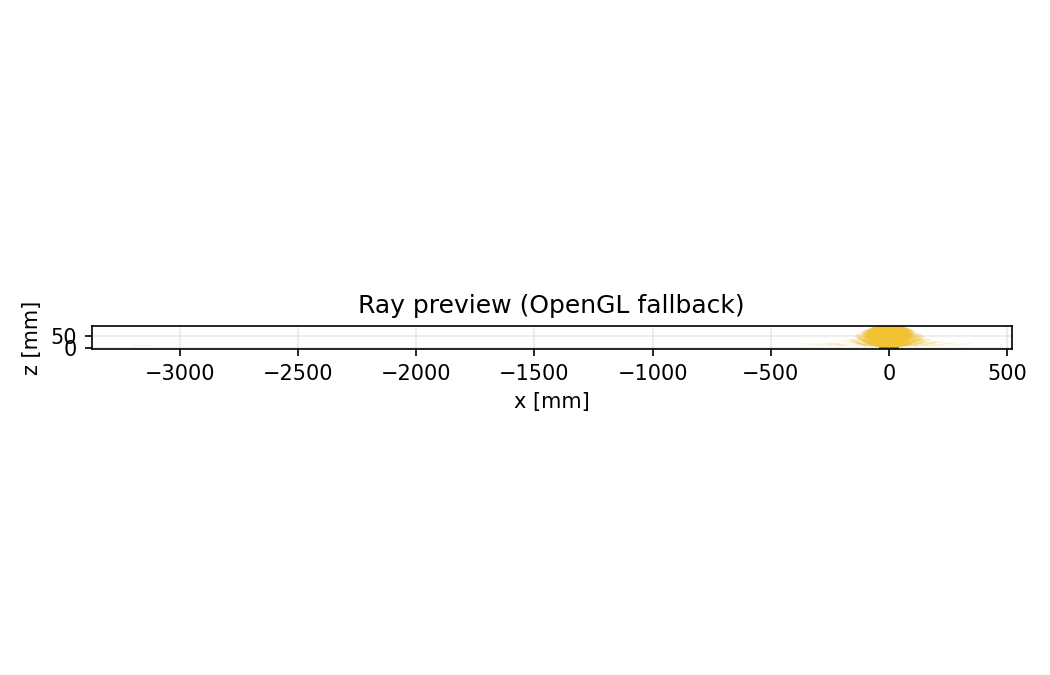
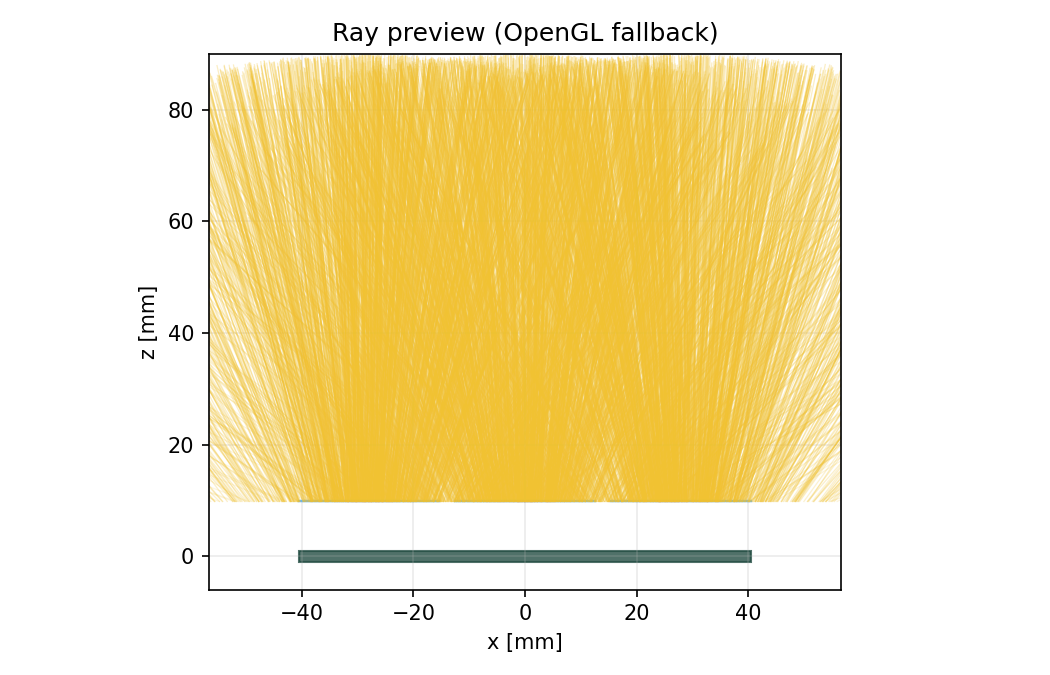
Render repeated lenses in OpenGL preview

diff --git a/app/opengl_view.py b/app/opengl_view.py
@@ -44,6 +44,8 @@ except Exception:
     OPENGL_AVAILABLE = False
 
 from sim.sampler import SimulationResult, layout_positions_from_config
+from sim.lens_models import load_lenses_json
+from sim.sampler import DATA_DIR
 
 
 class OpenGLView(QOpenGLWidget):
@@ -57,6 +59,7 @@ class OpenGLView(QOpenGLWidget):
         self.pan_x = 0.0
         self.pan_y = 0.0
         self.last_pos = QPoint()
+        self.lenses = load_lenses_json(DATA_DIR / "lenses.json")
 
     def set_result(self, result: SimulationResult | None) -> None:
         self.result = result
@@ -118,13 +121,64 @@ class OpenGLView(QOpenGLWidget):
         glEnd()
 
     def _draw_rect_outline_xy(self, z: float, w: float, h: float, color: tuple[float, float, float, float]) -> None:
+        self._draw_rect_outline_xy_at(0.0, 0.0, z, w, h, color)
+
+    def _draw_rect_outline_xy_at(
+        self,
+        cx: float,
+        cy: float,
+        z: float,
+        w: float,
+        h: float,
+        color: tuple[float, float, float, float],
+    ) -> None:
         glColor4f(*color)
         glBegin(GL_LINE_LOOP)
-        glVertex3f(-w / 2.0, -h / 2.0, z)
-        glVertex3f(w / 2.0, -h / 2.0, z)
-        glVertex3f(w / 2.0, h / 2.0, z)
-        glVertex3f(-w / 2.0, h / 2.0, z)
+        glVertex3f(cx - w / 2.0, cy - h / 2.0, z)
+        glVertex3f(cx + w / 2.0, cy - h / 2.0, z)
+        glVertex3f(cx + w / 2.0, cy + h / 2.0, z)
+        glVertex3f(cx - w / 2.0, cy + h / 2.0, z)
         glEnd()
+
+    def _draw_circle_outline_xy(
+        self,
+        cx: float,
+        cy: float,
+        z: float,
+        radius: float,
+        color: tuple[float, float, float, float],
+    ) -> None:
+        glColor4f(*color)
+        glBegin(GL_LINE_LOOP)
+        for i in range(80):
+            a = 2.0 * math.pi * i / 80.0
+            glVertex3f(cx + math.cos(a) * radius, cy + math.sin(a) * radius, z)
+        glEnd()
+
+    def _lens_spec(self) -> dict:
+        if self.result is None:
+            return {}
+        lens_id = self.result.config.lens_id
+        return next((dict(item) for item in self.lenses if item.get("id") == lens_id), {})
+
+    def _draw_aperture_from_spec(
+        self,
+        cx: float,
+        cy: float,
+        z: float,
+        spec: dict,
+        fallback_w: float,
+        fallback_h: float,
+        color: tuple[float, float, float, float],
+    ) -> None:
+        shape = spec.get("apparent_shape")
+        if shape == "circle" or "apparent_diameter_mm" in spec:
+            diameter = float(spec.get("apparent_diameter_mm", spec.get("diameter_mm", min(fallback_w, fallback_h))))
+            self._draw_circle_outline_xy(cx, cy, z, diameter / 2.0, color)
+            return
+        width = float(spec.get("apparent_width_mm", spec.get("width_mm", fallback_w)))
+        height = float(spec.get("apparent_height_mm", spec.get("height_mm", fallback_h)))
+        self._draw_rect_outline_xy_at(cx, cy, z, width, height, color)
 
     def _draw_board_and_leds(self) -> None:
         if self.result is None:
@@ -149,29 +203,57 @@ class OpenGLView(QOpenGLWidget):
         surface = self.result.apparent_surface
         surface_w = surface.diameter_mm or surface.width_mm or cfg.apparent_width_mm
         surface_h = surface.diameter_mm or surface.height_mm or cfg.apparent_height_mm
+        positions = layout_positions_from_config(cfg)
+        lens_spec = self._lens_spec()
         if cfg.lens_id != "none" and not cfg.ideal_mode:
-            glColor4f(0.42, 0.72, 1.0, 0.48)
-            glBegin(GL_LINE_LOOP)
-            radius = min(surface_w, surface_h) / 2.0
-            for i in range(80):
-                a = 2.0 * math.pi * i / 80.0
-                glVertex3f(math.cos(a) * radius, math.sin(a) * radius, z)
-            glEnd()
+            if lens_spec.get("apparent_repeats_per_led"):
+                unit_w = float(lens_spec.get("apparent_width_mm", lens_spec.get("width_mm", 25.0)))
+                unit_h = float(lens_spec.get("apparent_height_mm", lens_spec.get("height_mm", 25.0)))
+                for x, y, _ in positions:
+                    self._draw_rect_xy(float(x), float(y), z - 0.08, unit_w, unit_h, (0.25, 0.55, 0.90, 0.13))
+                    self._draw_aperture_from_spec(
+                        float(x),
+                        float(y),
+                        z,
+                        lens_spec,
+                        unit_w,
+                        unit_h,
+                        (0.42, 0.72, 1.0, 0.85),
+                    )
+                if surface_w is not None and surface_h is not None:
+                    self._draw_rect_outline_xy(z + 1.0, surface_w, surface_h, (0.42, 0.72, 1.0, 0.22))
+            else:
+                self._draw_aperture_from_spec(0.0, 0.0, z, lens_spec, surface_w, surface_h, (0.42, 0.72, 1.0, 0.85))
         if cfg.diffuser_id != "none":
             self._draw_rect_outline_xy(z + 6.0, surface_w, surface_h, (0.75, 0.95, 1.0, 0.8))
-        self._draw_rect_outline_xy(z + 10.0, surface_w, surface_h, (1.0, 0.78, 0.25, 0.75))
+        if surface.unit_count > 1 and lens_spec.get("apparent_repeats_per_led"):
+            for x, y, _ in positions:
+                self._draw_aperture_from_spec(
+                    float(x),
+                    float(y),
+                    z + 10.0,
+                    lens_spec,
+                    float(lens_spec.get("apparent_width_mm", 25.0)),
+                    float(lens_spec.get("apparent_height_mm", 25.0)),
+                    (1.0, 0.78, 0.25, 0.75),
+                )
+        else:
+            self._draw_rect_outline_xy(z + 10.0, surface_w, surface_h, (1.0, 0.78, 0.25, 0.75))
 
     def _draw_rays(self) -> None:
         if self.result is None or self.result.preview_rays is None:
             return
         rays = self.result.preview_rays
+        max_flux = float(rays.flux_lm.max()) if rays.count > 0 else 1.0
+        max_flux = max(max_flux, 1e-12)
         glLineWidth(1.0)
         glBegin(GL_LINES)
-        for origin, direction, alive in zip(rays.origins_mm, rays.directions, rays.alive):
+        for origin, direction, flux, alive in zip(rays.origins_mm, rays.directions, rays.flux_lm, rays.alive):
             if not alive:
                 continue
             end = origin + direction * 80.0
-            glColor4f(1.0, 0.86, 0.26, 0.22)
+            alpha = 0.08 + 0.24 * min(1.0, float(flux) / max_flux)
+            glColor4f(1.0, 0.86, 0.26, alpha)
             glVertex3f(float(origin[0]), float(origin[1]), float(origin[2]))
             glVertex3f(float(end[0]), float(end[1]), float(end[2]))
         glEnd()

diff --git a/sim/report.py b/sim/report.py
@@ -11,7 +11,7 @@ matplotlib.use("Agg")
 import matplotlib.pyplot as plt
 
 from .r148 import DISCLAIMER
-from .sampler import SimulationResult
+from .sampler import SimulationResult, layout_positions_from_config, load_default_lenses
 
 
 def save_config(result: SimulationResult, path: str | Path) -> None:
@@ -111,6 +111,8 @@ def save_3d_preview_fallback_png(result: SimulationResult, path: str | Path) -> 
     cfg = result.config
     surface = result.apparent_surface
     surface_w = surface.diameter_mm or surface.width_mm or cfg.apparent_width_mm
+    positions = layout_positions_from_config(cfg)
+    lens = next((item for item in load_default_lenses() if item.get("id") == cfg.lens_id), {})
     ax.add_patch(
         plt.Rectangle(
             (-surface_w / 2.0, -1.0),
@@ -121,17 +123,39 @@ def save_3d_preview_fallback_png(result: SimulationResult, path: str | Path) -> 
             label="board/front reference",
         )
     )
+    if cfg.lens_id != "none" and lens.get("apparent_repeats_per_led"):
+        unit_w = float(lens.get("apparent_width_mm", lens.get("width_mm", 25.0)))
+        for x, y, _ in positions:
+            z = cfg.lens_position_mm if cfg.lens_position_mm is not None else 12.0
+            ax.plot([float(x) - unit_w / 2.0, float(x) + unit_w / 2.0], [z, z], color="#64b5f6", linewidth=1.1, alpha=0.85)
+    elif cfg.lens_id != "none":
+        ax.add_patch(
+            plt.Rectangle(
+                (-surface_w / 2.0, -1.0),
+                surface_w,
+                2.0,
+                fill=False,
+                edgecolor="#64b5f6",
+                linewidth=1.1,
+                alpha=0.85,
+            )
+        )
     if result.preview_rays is not None:
         rays = result.preview_rays
-        for origin, direction, alive in zip(rays.origins_mm, rays.directions, rays.alive):
+        max_flux = max(float(rays.flux_lm.max()), 1e-12) if rays.count > 0 else 1.0
+        for origin, direction, flux, alive in zip(rays.origins_mm, rays.directions, rays.flux_lm, rays.alive):
             if not alive:
                 continue
             end = origin + direction * 80.0
-            ax.plot([origin[0], end[0]], [origin[2], end[2]], color="#f1c232", alpha=0.18, linewidth=0.6)
+            alpha = 0.06 + 0.22 * min(1.0, float(flux) / max_flux)
+            ax.plot([origin[0], end[0]], [origin[2], end[2]], color="#f1c232", alpha=alpha, linewidth=0.6)
     ax.set_xlabel("x [mm]")
     ax.set_ylabel("z [mm]")
     ax.set_title("Ray preview (OpenGL fallback)")
     ax.set_aspect("equal", adjustable="box")
+    half_width = max(surface_w * 0.7, 55.0)
+    ax.set_xlim(-half_width, half_width)
+    ax.set_ylim(-6.0, 90.0)
     ax.grid(True, alpha=0.25)
     fig.tight_layout()
     fig.savefig(path)

diff --git a/README.md b/README.md
@@ -167,6 +167,8 @@ BWSC提出には、実測フォトメトリ、色度測定、取付図、certify
 - `cad/generated/`: LED/レンズの公開寸法ベース近似STEP
 - `cad/assembly/DRL_CREE_XHP70B_LEDiL_C16369_2x3_approx.step`: 2 x 3主案の近似アセンブリSTEP
 
+OpenGL表示では、`apparent_repeats_per_led: true` のレンズをLED配列位置ごとに描画します。C16369の2 x 3主案では、25 mm x 25 mmレンズ6枚とLED 6個が表示されます。rayは全LEDから発生した数値rayのプレビューで、各rayの光束重みに応じて透明度を変えています。ただし合否判定はOpenGLの見た目ではなく、CSVに出る数値光度のみで行います。
+
 ## テスト
 
 ```powershell
